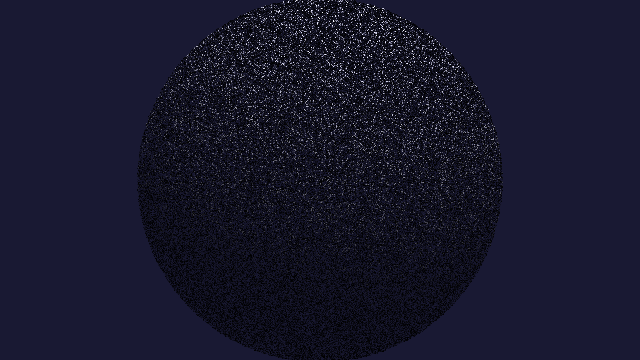
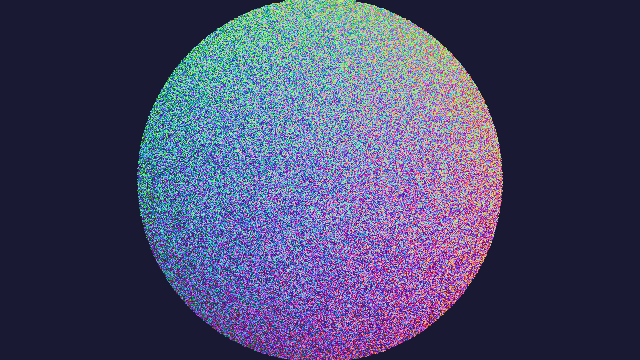
Add debug mode

diff --git a/run.go b/run.go
@@ -5,10 +5,10 @@ import (
 	"math"
 	"math/rand"
 	"os"
+	"path/filepath"
 )
 
-func run(pxWide, pxHigh int, filename string) error {
-	acc := newAccumulator(pxWide, pxHigh)
+func run(pxWide, pxHigh int, filename string, debug bool) error {
 	cam := newCamera(cameraConfig{
 		location:    vec3{z: 10},
 		lookingAt:   vec3{},
@@ -26,10 +26,34 @@ func run(pxWide, pxHigh int, filename string) error {
 		),
 		baseSky(fcolor{vec3{0.1, 0.1, 0.2}}),
 	)
-	rng := rand.New(rand.NewSource(0))
-	eng := &engine{acc, cam, fn, sk, rng}
-	eng.renderFrame()
 
+	acc := newAccumulator(pxWide, pxHigh)
+	rng := rand.New(rand.NewSource(0))
+	eng := &engine{acc, cam, fn, sk, rng, false}
+	eng.renderFrame()
+	if err := writeAccAsImage(acc, filename); err != nil {
+		return err
+	}
+
+	if debug {
+		acc := newAccumulator(pxWide, pxHigh)
+		rng := rand.New(rand.NewSource(0))
+		eng := &engine{acc, cam, fn, sk, rng, true}
+		eng.renderFrame()
+		if err := writeAccAsImage(acc, debugNormsFilename(filename)); err != nil {
+			return err
+		}
+	}
+
+	return nil
+}
+
+func debugNormsFilename(filename string) string {
+	ext := filepath.Ext(filename)
+	return filename[:len(ext)-1] + "_debug_norms" + ext
+}
+
+func writeAccAsImage(acc *accumulator, filename string) error {
 	img := acc.image()
 	f, err := os.OpenFile(filename, os.O_WRONLY|os.O_TRUNC|os.O_CREATE, 0644)
 	if err != nil {

diff --git a/engine.go b/engine.go
@@ -8,6 +8,8 @@ type engine struct {
 	fn  sdf
 	sk  sky
 	rng *rand.Rand
+
+	debugNorms bool
 }
 
 func (e *engine) renderFrame() {
@@ -17,7 +19,12 @@ func (e *engine) renderFrame() {
 		for pxX := 0; pxX < e.acc.pxWide; pxX++ {
 			x := (float64(pxX-e.acc.pxWide/2) + e.rng.Float64()) * pxPitch
 			r := e.cam.makeRay(x, y, e.rng)
-			fc := e.trace(r)
+			var fc fcolor
+			if e.debugNorms {
+				fc = e.traceNormal(r)
+			} else {
+				fc = e.trace(r)
+			}
 			e.acc.add(pxX, pxY, fc)
 		}
 	}
@@ -51,10 +58,6 @@ func (e *engine) trace(r ray) fcolor {
 	return cf
 }
 
-func unitDirToColor(uDir vec3) fcolor {
-	return fcolor{rgb: uDir.add(vec3{1, 1, 1}).scale(0.5)}
-}
-
 func (e *engine) traceNormal(r ray) fcolor {
 	t, ok := e.findSurface(r)
 	if !ok {
@@ -62,6 +65,10 @@ func (e *engine) traceNormal(r ray) fcolor {
 	}
 	n := e.uNormal(r.at(t))
 	return unitDirToColor(n)
+}
+
+func unitDirToColor(uDir vec3) fcolor {
+	return fcolor{rgb: uDir.add(vec3{1, 1, 1}).scale(0.5)}
 }
 
 func (e *engine) uNormal(v vec3) vec3 {

diff --git a/main.go b/main.go
@@ -11,10 +11,11 @@ func main() {
 		pxWide   = flag.Int("px-wide", 640, "width of the output image in pixels")
 		pxHigh   = flag.Int("px-high", 360, "height of the output image in pixels")
 		filename = flag.String("output-filename", "out.png", "output filename")
+		debug    = flag.Bool("debug", false, "show debug output")
 	)
 	flag.Parse()
 
-	if err := run(*pxWide, *pxHigh, *filename); err != nil {
+	if err := run(*pxWide, *pxHigh, *filename, *debug); err != nil {
 		log.Printf("error running: %v", err)
 		os.Exit(1)
 	}
